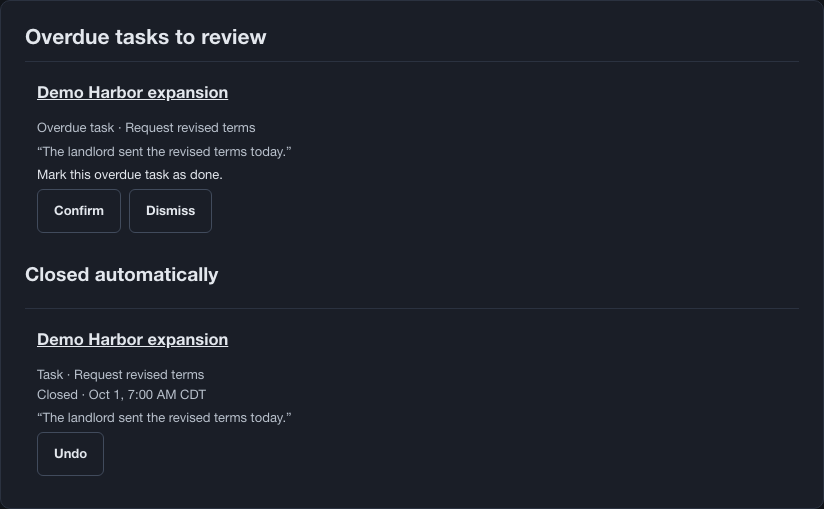
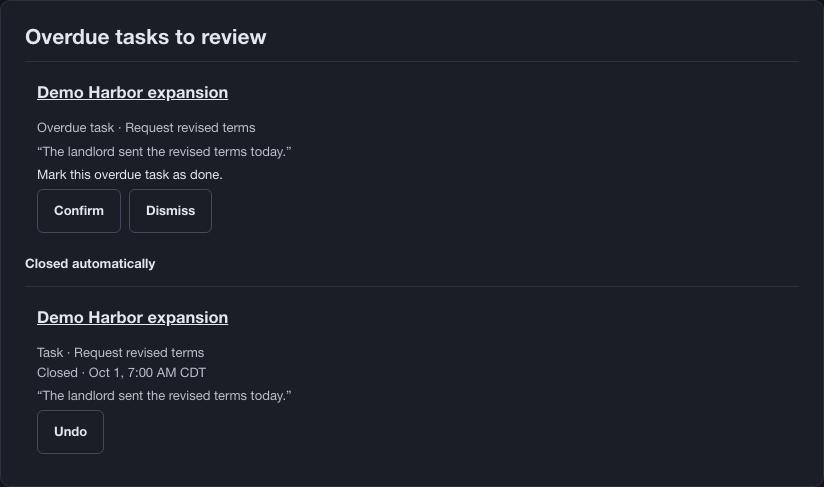
Apply Home subheading size

diff --git a/css/home-dashboard.css b/css/home-dashboard.css
@@ -198,7 +198,7 @@
 .home-email-activity summary { cursor: pointer; font: var(--font-weight-strong) var(--font-size-3)/var(--line-height-heading) var(--font-text); color: var(--fg); }
 .home-email-hint { display: block; margin-top: var(--space-1); color: var(--fg-muted); font: var(--font-weight-regular) var(--font-size-1)/var(--line-height-heading) var(--font-text); }
 .home-email-activity > section .home-panel-head h2 { font-size: var(--font-size-2); }
-.home-email-activity > section h3 { font-size: var(--font-size-1); }
+.home-email-activity > section h3, #homeOverdueReviews > .detail-section h3 { font-size: var(--font-size-1); }
 .home-email-activity > section { margin-top: var(--space-5); }
 
 #dealFlags .deal-alert .work-card-title a::after { content: ""; position: absolute; inset: 0; }
